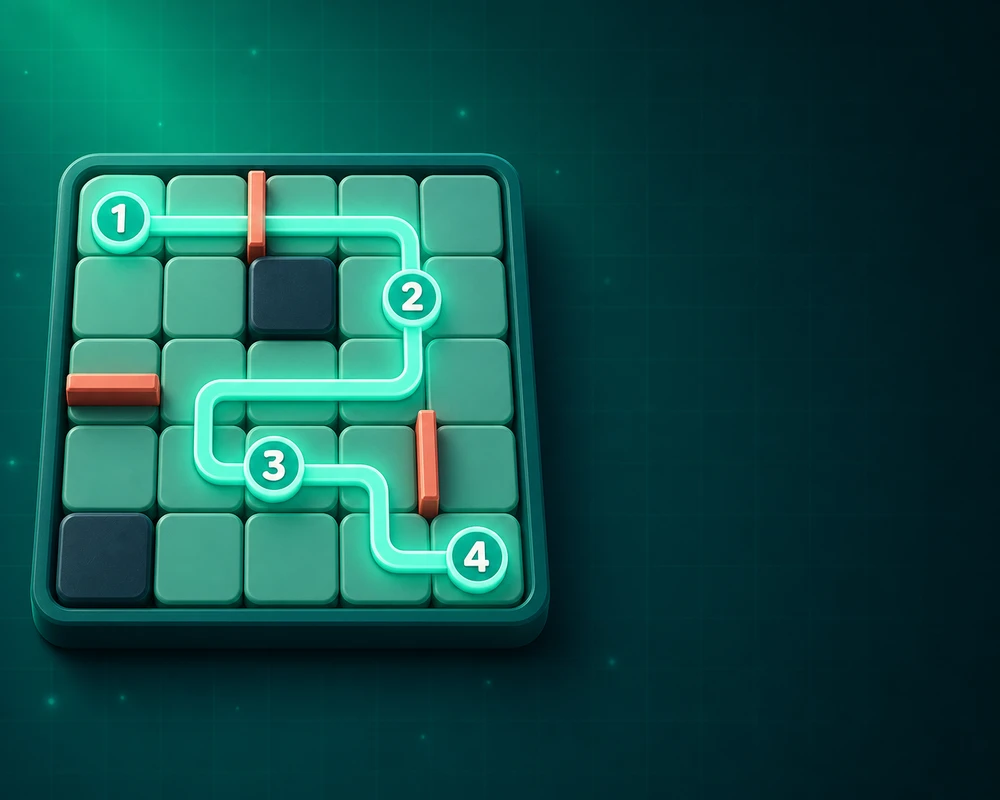
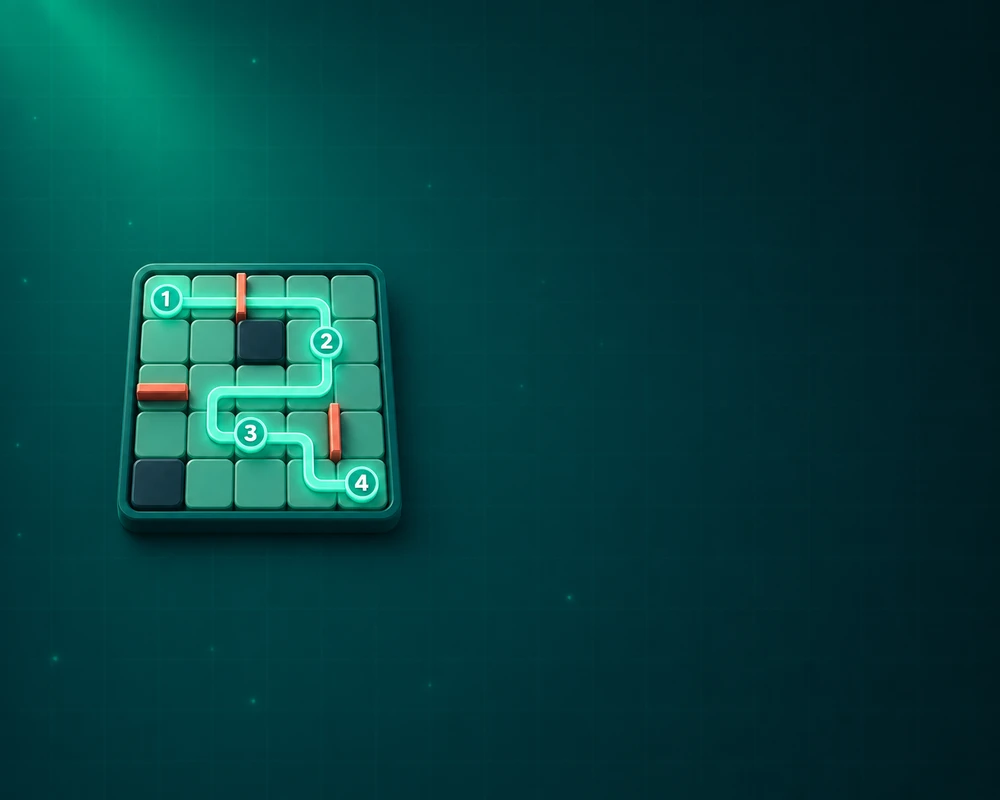
changes

diff --git a/src/game-tile-artwork.css b/src/game-tile-artwork.css
@@ -1,0 +1,239 @@
+.home-game-tile--tango {
+  --game-tile-art: url('/assets/tango-tile-bg.webp');
+  --game-tile-fallback: #07142f;
+  --game-tile-title: #fff8e7;
+  --game-tile-meta: #bcd7ff;
+  --game-tile-shadow: rgba(3, 16, 47, .30);
+}
+
+.home-game-tile--minisudoku {
+  --game-tile-art: url('/assets/minisudoku-tile-bg.webp');
+  --game-tile-fallback: #111b53;
+  --game-tile-title: #ffffff;
+  --game-tile-meta: #d6ddff;
+  --game-tile-shadow: rgba(20, 24, 79, .30);
+}
+
+.home-game-tile--geo {
+  --game-tile-art: url('/assets/geo-tile-bg.webp');
+  --game-tile-fallback: #168bc2;
+  --game-tile-title: #062f52;
+  --game-tile-meta: #124b67;
+  --game-tile-shadow: rgba(4, 74, 113, .24);
+}
+
+.home-game-tile--zoom {
+  --game-tile-art: url('/assets/zoom-tile-bg.webp');
+  --game-tile-fallback: #170c38;
+  --game-tile-title: #fff5ff;
+  --game-tile-meta: #e9c8ff;
+  --game-tile-shadow: rgba(28, 7, 68, .32);
+}
+
+:is(
+  .home-game-tile--tango,
+  .home-game-tile--minisudoku,
+  .home-game-tile--geo,
+  .home-game-tile--zoom
+) {
+  min-height: 154px !important;
+  height: 154px !important;
+  align-self: start;
+  overflow: hidden !important;
+  isolation: isolate;
+  padding: 0 !important;
+  gap: 0 !important;
+  border-color: transparent !important;
+  background-color: var(--game-tile-fallback) !important;
+  background-image: var(--game-tile-art) !important;
+  background-repeat: no-repeat !important;
+  background-size: cover !important;
+  background-position: center !important;
+  box-shadow: 0 10px 24px var(--game-tile-shadow) !important;
+}
+
+:is(
+  .home-game-tile--tango,
+  .home-game-tile--minisudoku,
+  .home-game-tile--geo,
+  .home-game-tile--zoom
+)::before {
+  content: "" !important;
+  position: absolute;
+  inset: -2px;
+  z-index: 0;
+  pointer-events: none;
+  background: var(--game-tile-art) center / cover no-repeat;
+}
+
+:is(
+  .home-game-tile--tango,
+  .home-game-tile--minisudoku,
+  .home-game-tile--geo,
+  .home-game-tile--zoom
+)::after {
+  content: none !important;
+}
+
+:is(
+  .home-game-tile--tango,
+  .home-game-tile--minisudoku,
+  .home-game-tile--geo,
+  .home-game-tile--zoom
+) > * {
+  position: relative;
+  z-index: 1;
+}
+
+/* The full-card illustration replaces the small home-grid icon. */
+:is(
+  .home-game-tile--tango,
+  .home-game-tile--minisudoku,
+  .home-game-tile--geo,
+  .home-game-tile--zoom
+) > span[aria-hidden="true"] {
+  display: none !important;
+}
+
+:is(
+  .home-game-tile--tango,
+  .home-game-tile--minisudoku,
+  .home-game-tile--geo,
+  .home-game-tile--zoom
+) > span[title],
+:is(
+  .home-game-tile--tango,
+  .home-game-tile--minisudoku,
+  .home-game-tile--geo,
+  .home-game-tile--zoom
+) > span[style*="right: 12px"] {
+  z-index: 4;
+}
+
+:is(
+  .home-game-tile--tango,
+  .home-game-tile--minisudoku,
+  .home-game-tile--geo,
+  .home-game-tile--zoom
+) > span[title] {
+  background: rgba(255, 255, 255, .94) !important;
+  box-shadow: 0 4px 12px var(--game-tile-shadow);
+}
+
+:is(
+  .home-game-tile--tango,
+  .home-game-tile--minisudoku,
+  .home-game-tile--geo,
+  .home-game-tile--zoom
+) > span:last-of-type {
+  position: absolute !important;
+  z-index: 2;
+  inset: 0;
+  width: auto !important;
+  margin: 0 !important;
+  padding: 0 !important;
+  background: none !important;
+  border: 0 !important;
+  box-shadow: none !important;
+  text-align: right;
+  pointer-events: none;
+}
+
+:is(
+  .home-game-tile--tango,
+  .home-game-tile--minisudoku,
+  .home-game-tile--geo,
+  .home-game-tile--zoom
+) > span:last-of-type > span:first-child {
+  position: absolute;
+  top: 18px;
+  right: 14px;
+  display: block !important;
+  max-width: 44%;
+}
+
+:is(
+  .home-game-tile--tango,
+  .home-game-tile--minisudoku,
+  .home-game-tile--geo,
+  .home-game-tile--zoom
+) > span:last-of-type strong {
+  color: var(--game-tile-title) !important;
+  font-size: 18px !important;
+  line-height: 1.05;
+  letter-spacing: -.015em;
+  text-shadow: 0 2px 8px var(--game-tile-shadow);
+}
+
+:is(
+  .home-game-tile--tango,
+  .home-game-tile--minisudoku,
+  .home-game-tile--geo,
+  .home-game-tile--zoom
+) > span:last-of-type > span:nth-child(2) {
+  display: none !important;
+}
+
+:is(
+  .home-game-tile--tango,
+  .home-game-tile--minisudoku,
+  .home-game-tile--geo,
+  .home-game-tile--zoom
+) > span:last-of-type > span:nth-child(3) {
+  position: absolute;
+  right: 13px;
+  bottom: 13px;
+  display: block !important;
+  max-width: 48%;
+  margin: 0 !important;
+  color: var(--game-tile-meta) !important;
+  font-size: var(--text-caption-size) !important;
+  font-weight: 700 !important;
+  line-height: 1.15;
+  text-align: right;
+  text-shadow: 0 2px 7px var(--game-tile-shadow);
+}
+
+@media (hover: hover) and (pointer: fine) {
+  :is(
+    .home-game-tile--tango,
+    .home-game-tile--minisudoku,
+    .home-game-tile--geo,
+    .home-game-tile--zoom
+  ):not(:disabled):hover {
+    border-color: color-mix(in srgb, var(--game-tile-meta) 55%, transparent) !important;
+    box-shadow: 0 14px 30px var(--game-tile-shadow) !important;
+  }
+}
+
+@media (max-width: 390px) {
+  :is(
+    .home-game-tile--tango,
+    .home-game-tile--minisudoku,
+    .home-game-tile--geo,
+    .home-game-tile--zoom
+  ) > span:last-of-type > span:first-child {
+    top: 16px;
+    right: 11px;
+  }
+
+  :is(
+    .home-game-tile--tango,
+    .home-game-tile--minisudoku,
+    .home-game-tile--geo,
+    .home-game-tile--zoom
+  ) > span:last-of-type strong {
+    font-size: 17px !important;
+  }
+
+  :is(
+    .home-game-tile--tango,
+    .home-game-tile--minisudoku,
+    .home-game-tile--geo,
+    .home-game-tile--zoom
+  ) > span:last-of-type > span:nth-child(3) {
+    right: 10px;
+    bottom: 11px;
+    font-size: 10px !important;
+  }
+}

diff --git a/src/Home.jsx b/src/Home.jsx
@@ -832,7 +832,7 @@ export default function Home({ onSelect, playMode, onPlayModeChange, players = [
                   key={game.id}
                   disabled={!canOpenGame}
                   onClick={() => canOpenGame && onSelect(game.id)}
-                  className="home-game-tile"
+                  className={`home-game-tile home-game-tile--${game.id}`}
                   style={{
                     ...buttonReset,
                     position: "relative",

diff --git a/src/main.jsx b/src/main.jsx
@@ -13,6 +13,7 @@ import "./board-review-toggle.css";
 import "./circle-portal.css";
 import "./hive-branding.css";
 import "./gridly-branding.css";
+import "./game-tile-artwork.css";
 
 enableAutomaticAppUpdates();
 
